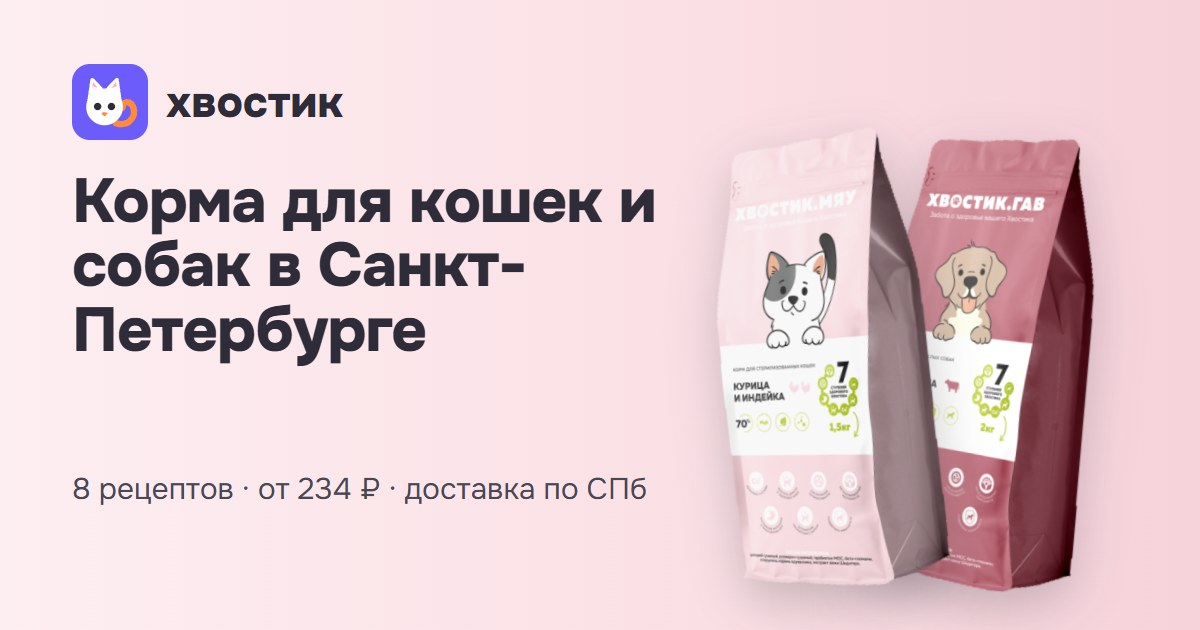
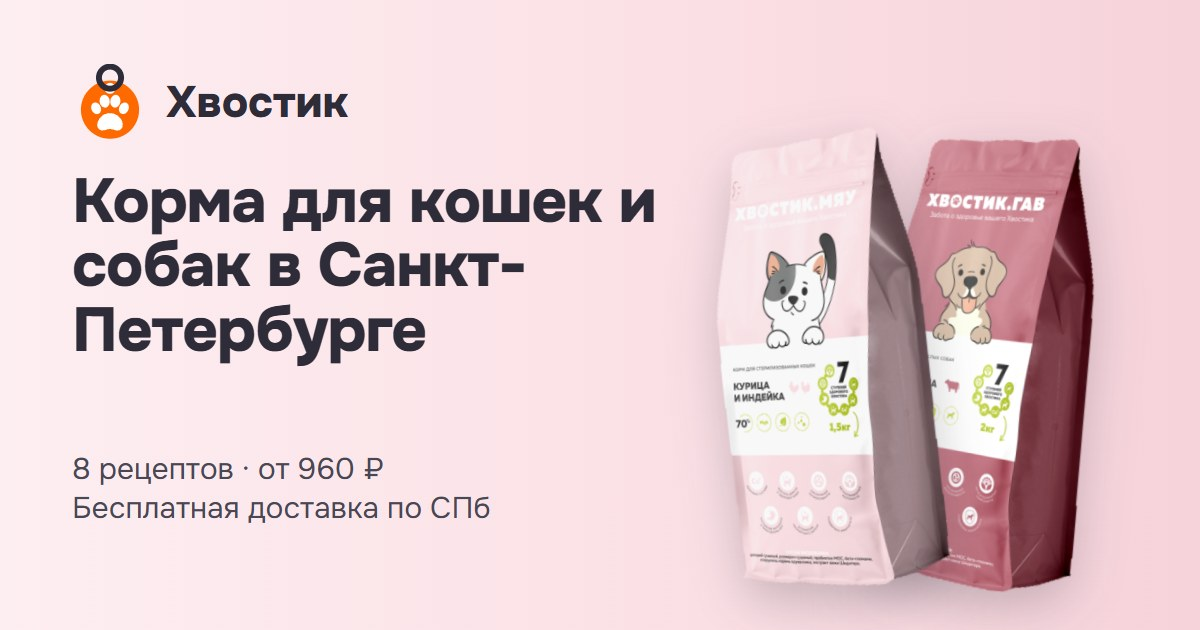
Логотип-брелок, компактный баннер cookie на телефоне, защита входа от ботов и коды в Telegram/Max, равные кнопки мессенджеров, неразрывный пробел перед ₽

Changed region(s): [[0.0617, 0.7238, 0.555, 0.8444], [0.0617, 0.0905, 0.3083, 0.2413]]

diff --git a/src/App.jsx b/src/App.jsx
@@ -1,6 +1,6 @@
 import { useEffect, useMemo, useRef, useState } from 'react'
 import {
-  Search, ShoppingBag, Heart, User, MapPin, Menu, X, Minus, Plus, ChevronRight, Phone, Clock, LogOut, Package,
+  Search, ShoppingBag, Heart, User, Menu, X, Minus, Plus, ChevronRight, Phone, Clock, LogOut, Package,
   Drumstick, Scale, HeartPulse, ShieldCheck, Factory, BadgeCheck, Check, Trash2, Loader2, Send, Truck, Sparkles, PawPrint, Cookie,
 } from 'lucide-react'
 import { Button } from '@/components/ui/button'
@@ -13,6 +13,7 @@ import { Dialog, DialogContent, DialogTitle, DialogDescription } from '@/compone
 import { cn } from '@/lib/utils'
 import { StoreProvider, useStore, rub, fmtPhone } from './store'
 import { RouterProvider, useRoute, Link } from './router'
+import { sendCode, checkCode, linkedChannels, setLinked, channelNames } from './auth'
 import {
   BASE, contacts, seller, products, kinds, searchHints, benefits, stats, checks, posts, contactTopics, faq, pages,
   productPath, minPrice, img, declaration, manufacturer, minAll,
@@ -100,7 +101,7 @@ function MessengerButtons({ className }) {
 function Logo({ light, onClick }) {
   return (
     <Link to="" onClick={onClick} className="flex shrink-0 items-center gap-2.5" aria-label="Хвостик — на главную">
-      <img src={`${BASE}favicon.svg`} alt="" width="44" height="44" className="size-10 sm:size-11" />
+      <img src={`${BASE}${light ? 'logo-light.svg' : 'favicon.svg'}`} alt="" width="44" height="44" className="size-10 sm:size-11" />
       <span className={cn('text-[22px] font-extrabold leading-none tracking-tight', light && 'text-white')}>Хвостик</span>
     </Link>
   )
@@ -286,7 +287,7 @@ function Hero({ nav }) {
           <span className="inline-block rounded-full bg-white px-3 py-1 text-xs font-semibold text-ink">Бесплатная доставка по Санкт-Петербургу</span>
           <h1 className="mt-5 text-[34px] font-extrabold leading-[1.04] tracking-tight md:text-[54px]">Корма «Хвостик» для кошек и собак в Санкт-Петербурге</h1>
           <p className="mt-5 max-w-[470px] text-lg leading-snug md:text-xl">
-            Хвостик.МЯУ и Хвостик.ГАВ — восемь сухих рецептов: для взрослых, котят, щенков, стерилизованных кошек и мелких пород. От {minAll} ₽.
+            Хвостик.МЯУ и Хвостик.ГАВ — восемь сухих рецептов: для взрослых, котят, щенков, стерилизованных кошек и мелких пород. От {minAll} ₽.
           </p>
           <div className="mt-8 flex flex-wrap gap-3">
             <Link to={kinds.cat.path} className={cn(inkBtn, 'flex h-[52px] items-center px-7 text-base')}>Корм для кошек</Link>
@@ -902,11 +903,11 @@ function Messengers() {
     document.addEventListener('keydown', esc)
     return () => { document.removeEventListener('pointerdown', out); document.removeEventListener('keydown', esc) }
   }, [open])
-  const item = 'flex items-center gap-2 rounded-full bg-white py-2 pl-2 pr-4 text-sm font-semibold shadow-[0_6px_24px_rgba(46,44,56,.2)] hover:bg-gray-1'
+  const item = 'flex w-full items-center gap-2 rounded-full bg-white py-2 pl-2 pr-4 text-sm font-semibold shadow-[0_6px_24px_rgba(46,44,56,.2)] hover:bg-gray-1'
   return (
     <div ref={box} className="fixed bottom-5 right-5 z-30 flex flex-col items-end gap-2">
       {open && (
-        <div className="flex flex-col items-end gap-2">
+        <div className="grid w-[156px] gap-2">
           <a href={contacts.telegram} target="_blank" rel="noopener nofollow" onClick={() => setOpen(false)} className={item}><TgIcon className="size-8" />Telegram</a>
           <a href={contacts.max} target="_blank" rel="noopener nofollow" onClick={() => setOpen(false)} className={item}><MaxIcon className="size-8" />Max</a>
         </div>
@@ -930,21 +931,28 @@ function CookieBanner() {
   }, [])
   const save = (v) => { try { localStorage.setItem('hv-cookies', JSON.stringify({ v, at: new Date().toISOString() })) } catch { /* пусто */ } setShow(false) }
   if (!show) return null
+  const policy = <Link to={pages.privacy.path} className="text-violet-dark underline">политике конфиденциальности</Link>
   return (
-    <div role="region" aria-label="Cookie и персональные данные" className="fixed inset-x-3 bottom-3 z-50 rounded-[16px] bg-white p-4 shadow-[0_12px_40px_rgba(46,44,56,.22)] sm:inset-x-auto sm:left-5 sm:bottom-5 sm:max-w-[460px]">
-      <div className="flex gap-3">
-        <Cookie className="mt-0.5 size-6 shrink-0 text-violet-dark" aria-hidden />
-        <div>
-          <div className="font-bold">Мы используем cookie</div>
-          <p className="mt-1 text-sm text-txt-2">
-            Используем cookie и обрабатываем персональные данные, чтобы работали корзина и личный кабинет. Подробнее — в{' '}
-            <Link to={pages.privacy.path} className="text-violet-dark underline">политике конфиденциальности</Link>.
-          </p>
-        </div>
+    <div role="region" aria-label="Cookie и персональные данные"
+      className="fixed inset-x-2 bottom-2 z-50 rounded-[14px] bg-white p-3 shadow-[0_8px_30px_rgba(46,44,56,.22)] sm:inset-x-auto sm:bottom-5 sm:left-5 sm:max-w-[460px] sm:rounded-[16px] sm:p-5">
+      {/* телефон: одна короткая строка и две маленькие кнопки */}
+      <div className="flex items-center gap-2 sm:hidden">
+        <p className="flex-1 text-[12px] leading-snug text-txt-2">Мы используем cookie и обрабатываем персональные данные. Подробнее — в {policy}.</p>
+        <button onClick={() => save('all')} className="h-10 shrink-0 rounded-[10px] bg-ink px-5 text-[14px] font-semibold text-white">Ок</button>
       </div>
-      <div className="mt-3 flex gap-2">
-        <Button onClick={() => save('all')} className={cn(inkBtn, 'flex-1')}>Принять</Button>
-        <Button onClick={() => save('necessary')} variant="ghost" className="h-11 flex-1 rounded-[10px] bg-gray-1 text-sm font-semibold hover:bg-gray-2">Только необходимые</Button>
+      {/* компьютер и планшет */}
+      <div className="hidden sm:block">
+        <div className="flex gap-3">
+          <Cookie className="mt-0.5 size-6 shrink-0 text-violet-dark" aria-hidden />
+          <div>
+            <div className="font-bold">Мы используем cookie</div>
+            <p className="mt-1 text-sm text-txt-2">Используем cookie и обрабатываем персональные данные, чтобы работали корзина и личный кабинет. Подробнее — в {policy}.</p>
+          </div>
+        </div>
+        <div className="mt-3 flex gap-2">
+          <Button onClick={() => save('all')} className={cn(inkBtn, 'flex-1')}>Принять</Button>
+          <Button onClick={() => save('necessary')} variant="ghost" className="h-11 flex-1 rounded-[10px] bg-gray-1 text-sm font-semibold hover:bg-gray-2">Только необходимые</Button>
+        </div>
       </div>
     </div>
   )
@@ -1083,40 +1091,91 @@ function Empty({ icon: I, text, action }) {
 
 function Login() {
   const st = useStore()
-  const [f, setF] = useState({ name: '', phone: '', code: '', ok: false })
+  const [f, setF] = useState({ name: '', phone: '', code: '', ok: false, trap: '' })
   const [step, setStep] = useState('phone')
   const [err, setErr] = useState('')
-  const next = (e) => {
+  const [busy, setBusy] = useState(false)
+  const [sent, setSent] = useState(null) // { channel, demoCode }
+  const [wait, setWait] = useState(0)
+  const started = useRef(Date.now())
+  useEffect(() => {
+    if (!wait) return
+    const t = setTimeout(() => setWait(wait - 1), 1000)
+    return () => clearTimeout(t)
+  }, [wait])
+  const request = async () => {
+    setBusy(true)
+    const res = await sendCode(f.phone, { trap: f.trap, startedAt: started.current })
+    setBusy(false)
+    if (res.resendIn) setWait(res.resendIn)
+    if (res.error) return setErr(res.error)
+    setErr(''); setSent(res); setF((x) => ({ ...x, code: '' })); setStep('code')
+  }
+  const next = async (e) => {
     e.preventDefault()
+    if (busy) return
     if (step === 'phone') {
       if (f.name.trim().length < 2) return setErr('Введите имя')
       if (f.phone.replace(/\D/g, '').length !== 11) return setErr('Введите телефон полностью')
       if (!f.ok) return setErr('Нужно согласие на обработку данных')
-      setErr(''); setStep('code')
-    } else {
-      if (f.code.length !== 4) return setErr('Введите 4 цифры')
-      st.setUser({ name: f.name.trim(), phone: f.phone })
+      return request()
     }
+    if (f.code.length !== 4) return setErr('Введите 4 цифры')
+    setBusy(true)
+    const res = await checkCode(f.phone, f.code)
+    setBusy(false)
+    if (res.error) return setErr(res.error)
+    st.setUser({ name: f.name.trim(), phone: f.phone })
   }
+  const where = sent?.channel === 'sms' ? `по смс на ${f.phone}` : `в ${channelNames[sent?.channel]} — аккаунт, привязанный к ${f.phone}`
   return (
     <form onSubmit={next} noValidate className="space-y-3">
-      <div className="mb-2 rounded-[14px] bg-violet-soft p-4 text-sm">Войдите, чтобы видеть свои заказы и избранное.</div>
+      <div className="mb-2 rounded-[14px] bg-violet-soft p-4 text-sm">Войдите, чтобы видеть свои заказы и избранное. Если к номеру привязан Telegram или Max, код придёт туда.</div>
       {step === 'phone' ? (
         <>
           <Input aria-label="Имя" autoComplete="name" placeholder="Имя" value={f.name} onChange={(e) => setF({ ...f, name: e.target.value })} className="h-12 rounded-[10px] text-[15px]" />
           <Input aria-label="Телефон" type="tel" autoComplete="tel" placeholder="Телефон" inputMode="tel" value={f.phone} onChange={(e) => setF({ ...f, phone: fmtPhone(e.target.value) })} className="h-12 rounded-[10px] text-[15px]" />
+          {/* поле-ловушка для ботов: людям не видно */}
+          <input type="text" name="company" tabIndex={-1} autoComplete="off" aria-hidden="true" value={f.trap} onChange={(e) => setF({ ...f, trap: e.target.value })} className="absolute -left-[9999px] h-px w-px opacity-0" />
           <Consent checked={f.ok} onChange={(ok) => setF({ ...f, ok })} />
         </>
       ) : (
         <>
-          <p className="text-[15px]">Код отправлен на {f.phone}. <button type="button" className="text-violet-dark underline" onClick={() => setStep('phone')}>изменить</button></p>
-          <Input aria-label="Код из смс" autoFocus placeholder="Код из смс" inputMode="numeric" autoComplete="one-time-code" maxLength={4} value={f.code} onChange={(e) => setF({ ...f, code: e.target.value.replace(/\D/g, '') })} className="h-12 rounded-[10px] text-center text-xl tracking-[.5em]" />
-          <p className="text-xs text-txt-2">Демо: подойдут любые 4 цифры, смс не отправляется.</p>
+          <p className="text-[15px]">Код отправлен {where}. <button type="button" className="text-violet-dark underline" onClick={() => { setStep('phone'); setErr('') }}>Изменить номер</button></p>
+          <Input aria-label="Код" autoFocus placeholder="Код" inputMode="numeric" autoComplete="one-time-code" maxLength={4} value={f.code} onChange={(e) => setF({ ...f, code: e.target.value.replace(/\D/g, '') })} className="h-12 rounded-[10px] text-center text-xl tracking-[.5em]" />
+          {sent?.demoCode && <p className="text-xs text-txt-2">Демо: сообщения пока не отправляются, ваш код — {sent.demoCode}</p>}
+          <button type="button" disabled={wait > 0 || busy} onClick={request} className="text-sm text-violet-dark underline disabled:text-txt-2 disabled:no-underline">
+            {wait > 0 ? `Отправить код повторно через ${wait} с` : 'Отправить код повторно'}
+          </button>
         </>
       )}
-      {err && <p className="text-sm text-destructive">{err}</p>}
-      <Button type="submit" className={cn(inkBtn, 'h-12 w-full text-base')}>{step === 'phone' ? 'Получить код' : 'Войти'}</Button>
+      {err && <p role="alert" className="text-sm text-destructive">{err}</p>}
+      <Button type="submit" disabled={busy} className={cn(inkBtn, 'h-12 w-full text-base')}>{busy ? <Loader2 className="size-5 animate-spin" /> : step === 'phone' ? 'Получить код' : 'Войти'}</Button>
     </form>
+  )
+}
+
+// Привязка мессенджеров: после привязки коды для входа приходят туда, а не по смс
+function LinkedMessengers() {
+  const st = useStore()
+  const [linked, setL] = useState(() => linkedChannels(st.user.phone))
+  const toggle = (c) => setL(setLinked(st.user.phone, c, !linked.includes(c)))
+  return (
+    <div className="rounded-[14px] border border-gray-2 p-4">
+      <div className="font-semibold">Коды для входа</div>
+      <p className="mt-1 text-sm text-txt-2">Привяжите мессенджер — коды будут приходить туда, а не по смс.</p>
+      <div className="mt-3 grid grid-cols-2 gap-2">
+        {[['telegram', TgIcon], ['max', MaxIcon]].map(([c, I]) => {
+          const on = linked.includes(c)
+          return (
+            <button key={c} type="button" onClick={() => toggle(c)} aria-pressed={on}
+              className={cn('flex h-11 items-center justify-center gap-2 rounded-[10px] text-sm font-semibold transition-colors', on ? 'bg-violet-soft text-violet-dark' : 'bg-gray-1 hover:bg-gray-2')}>
+              <I className="size-6" />{channelNames[c]}{on && <span className="flex items-center gap-0.5 text-xs font-medium"><Check className="size-3.5" />подключён</span>}
+            </button>
+          )
+        })}
+      </div>
+    </div>
   )
 }
 
@@ -1126,16 +1185,17 @@ function Profile({ nav }) {
     <div className="space-y-5">
       <div className="flex items-center gap-3 rounded-[14px] bg-gray-1 p-4">
         <span className="flex size-12 items-center justify-center rounded-full bg-violet-dark text-lg font-bold text-white">{st.user.name[0]?.toUpperCase()}</span>
-        <div className="flex-1"><div className="font-bold">{st.user.name}</div><div className="text-sm text-txt-2">{st.user.phone}</div></div>
+        <div className="min-w-0 flex-1"><div className="font-bold">{st.user.name}</div><div className="whitespace-nowrap text-sm text-txt-2">{st.user.phone}</div></div>
         <button onClick={() => st.setUser(null)} className="flex items-center gap-1 text-sm text-txt-2 hover:text-ink"><LogOut className="size-4" />Выйти</button>
       </div>
       <div className="grid grid-cols-2 gap-2">
         <button onClick={() => st.setPanel('fav')} className="rounded-[14px] border border-gray-2 p-4 text-left hover:bg-gray-1"><Heart className="mb-2 size-5" /><div className="font-semibold">Избранное</div><div className="text-sm text-txt-2">{st.fav.length} шт.</div></button>
         <button onClick={() => st.setPanel('cart')} className="rounded-[14px] border border-gray-2 p-4 text-left hover:bg-gray-1"><ShoppingBag className="mb-2 size-5" /><div className="font-semibold">Корзина</div><div className="text-sm text-txt-2">{st.count} шт.</div></button>
       </div>
+      <LinkedMessengers />
       <div>
         <div className="mb-3 text-lg font-extrabold">Мои заказы</div>
-        {!st.orders.length && <p className="text-sm text-txt-2">Заказов пока нет. <button className="text-violet-dark underline" onClick={() => { st.setPanel(null); nav.show({}) }}>перейти в каталог</button></p>}
+        {!st.orders.length && <p className="text-sm text-txt-2">Заказов пока нет. <button className="text-violet-dark underline" onClick={() => { st.setPanel(null); nav.show({}) }}>Перейти в каталог</button></p>}
         <div className="space-y-2">
           {st.orders.map((o) => (
             <div key={o.n} className="rounded-[14px] border border-gray-2 p-4">

diff --git a/src/auth.js b/src/auth.js
@@ -1,0 +1,126 @@
+// Вход в личный кабинет по коду: защита от ботов и выбор канала доставки кода.
+//
+// Как это будет работать с настоящим сервисом:
+// 1. Браузер получает токен Яндекс SmartCaptcha (невидимая проверка, российский сервис)
+//    и отправляет его на сервер вместе с номером: POST /api/auth/send-code { phone, captcha }.
+// 2. Сервер проверяет токен капчи, лимиты по номеру и IP, затем смотрит,
+//    привязан ли к номеру Telegram или Max. Если привязан — код уходит туда (бесплатно),
+//    если нет — по смс через подключённый смс-сервис.
+// 3. Ответ сервера: { channel: 'telegram' | 'max' | 'sms', resendIn: 60 }.
+// Пока сервера нет, всё ниже работает в демо-режиме прямо в браузере.
+// Важно: проверки в браузере — первый барьер, обойти их можно. Настоящие лимиты
+// и проверка капчи обязательно должны дублироваться на сервере.
+
+export const authConfig = {
+  api: '', // адрес сервера, например 'https://api.hvostik.ru'; пусто — демо-режим
+  smartCaptchaKey: '', // ключ клиента Яндекс SmartCaptcha; пусто — капча не загружается
+  resendSeconds: 60, // пауза перед повторной отправкой кода
+  maxSendsPerHour: 3, // сколько раз за час можно запросить код на один номер
+  maxWrongCodes: 5, // после стольких неверных кодов вход блокируется
+  lockMinutes: 15,
+  minFillMs: 1500, // форму, заполненную быстрее, считаем заполненной ботом
+}
+
+export const channelNames = { telegram: 'Telegram', max: 'Max', sms: 'смс' }
+
+const digits = (phone) => phone.replace(/\D/g, '')
+const read = (k, d) => { try { return JSON.parse(localStorage.getItem(k)) ?? d } catch { return d } }
+const write = (k, v) => { try { localStorage.setItem(k, JSON.stringify(v)) } catch { /* пусто */ } }
+
+/* ---- привязка мессенджеров (демо: хранится в браузере, на сервере — в базе) ---- */
+export function linkedChannels(phone) {
+  return read('hv-linked', {})[digits(phone)] || []
+}
+export function setLinked(phone, channel, on) {
+  const all = read('hv-linked', {})
+  const cur = new Set(all[digits(phone)] || [])
+  on ? cur.add(channel) : cur.delete(channel)
+  all[digits(phone)] = [...cur]
+  write('hv-linked', all)
+  return all[digits(phone)]
+}
+// Куда отправлять код: сначала Telegram, потом Max, иначе смс
+export const pickChannel = (linked) => (linked.includes('telegram') ? 'telegram' : linked.includes('max') ? 'max' : 'sms')
+
+/* ---- лимиты ---- */
+function limits(phone) {
+  const all = read('hv-auth', {})
+  return { all, l: all[digits(phone)] || { sends: [], wrong: 0, lockUntil: 0 } }
+}
+const save = (phone, all, l) => { all[digits(phone)] = l; write('hv-auth', all) }
+
+export function lockLeft(phone) {
+  const { l } = limits(phone)
+  return Math.max(0, Math.ceil((l.lockUntil - Date.now()) / 1000))
+}
+
+/* ---- Яндекс SmartCaptcha: загружается только если указан ключ ---- */
+let captchaReady
+function loadCaptcha() {
+  if (!authConfig.smartCaptchaKey) return Promise.resolve(null)
+  captchaReady ||= new Promise((ok, fail) => {
+    const s = document.createElement('script')
+    s.src = 'https://smartcaptcha.yandexcloud.net/captcha.js?render=onload'
+    s.async = true
+    s.onload = () => ok(window.smartCaptcha)
+    s.onerror = fail
+    document.head.appendChild(s)
+  })
+  return captchaReady
+}
+async function captchaToken() {
+  const sc = await loadCaptcha()
+  if (!sc) return null
+  const box = document.createElement('div')
+  document.body.appendChild(box)
+  return new Promise((ok) => {
+    const id = sc.render(box, { sitekey: authConfig.smartCaptchaKey, invisible: true, hideShield: true, callback: (t) => { box.remove(); ok(t) } })
+    sc.execute(id)
+  })
+}
+
+/* ---- отправка кода ---- */
+// trap — скрытое поле-ловушка (человек его не видит и не заполняет), startedAt — когда открыли форму
+export async function sendCode(phone, { trap = '', startedAt = 0 } = {}) {
+  if (trap) return { error: 'Не удалось отправить код. Попробуйте ещё раз.' }
+  if (Date.now() - startedAt < authConfig.minFillMs) return { error: 'Слишком быстро. Проверьте данные и нажмите ещё раз.' }
+  const { all, l } = limits(phone)
+  const now = Date.now()
+  if (l.lockUntil > now) return { error: `Слишком много попыток. Попробуйте через ${Math.ceil((l.lockUntil - now) / 60000)} мин.` }
+  l.sends = l.sends.filter((t) => now - t < 3600e3)
+  const last = l.sends.at(-1)
+  if (last && now - last < authConfig.resendSeconds * 1000) return { error: 'Код уже отправлен, подождите немного.', resendIn: Math.ceil((authConfig.resendSeconds * 1000 - (now - last)) / 1000) }
+  if (l.sends.length >= authConfig.maxSendsPerHour) return { error: 'Код можно запросить не больше 3 раз в час. Попробуйте позже.' }
+
+  const captcha = await captchaToken()
+  let res
+  if (authConfig.api) {
+    const r = await fetch(`${authConfig.api}/api/auth/send-code`, { method: 'POST', headers: { 'Content-Type': 'application/json' }, body: JSON.stringify({ phone: digits(phone), captcha }) })
+    res = await r.json()
+    if (!r.ok) return { error: res.error || 'Не удалось отправить код' }
+  } else {
+    // демо: код генерируется в браузере и показывается на экране
+    const code = String(Math.floor(1000 + Math.random() * 9000))
+    sessionStorage.setItem('hv-demo-code', code)
+    res = { channel: pickChannel(linkedChannels(phone)), resendIn: authConfig.resendSeconds, demoCode: code }
+  }
+  l.sends.push(now)
+  save(phone, all, l)
+  return res
+}
+
+/* ---- проверка кода ---- */
+export async function checkCode(phone, code) {
+  const { all, l } = limits(phone)
+  if (l.lockUntil > Date.now()) return { error: 'Вход временно заблокирован. Попробуйте позже.' }
+  let ok
+  if (authConfig.api) {
+    const r = await fetch(`${authConfig.api}/api/auth/check-code`, { method: 'POST', headers: { 'Content-Type': 'application/json' }, body: JSON.stringify({ phone: digits(phone), code }) })
+    ok = r.ok
+  } else ok = code === sessionStorage.getItem('hv-demo-code')
+  if (ok) { l.wrong = 0; save(phone, all, l); sessionStorage.removeItem('hv-demo-code'); return { ok: true } }
+  l.wrong += 1
+  if (l.wrong >= authConfig.maxWrongCodes) { l.lockUntil = Date.now() + authConfig.lockMinutes * 60e3; l.wrong = 0; save(phone, all, l); return { error: `Неверный код. Вход заблокирован на ${authConfig.lockMinutes} минут.` } }
+  save(phone, all, l)
+  return { error: `Неверный код. Осталось попыток: ${authConfig.maxWrongCodes - l.wrong}` }
+}

diff --git a/src/data.js b/src/data.js
@@ -113,16 +113,16 @@ export const products = [
   },
 ]
 
-const fmt = (n) => n.toLocaleString('ru-RU').replace(/\u00a0|\u202f/g, ' ')
+const fmt = (n) => n.toLocaleString('ru-RU').replace(/\u202f| /g, '\u00a0')
 const from = (kind) => fmt(Math.min(...products.filter((p) => p.kind === kind).flatMap((p) => p.weights.map((w) => w.price))))
 export const kinds = {
   cat: { path: 'koshkam/', menu: 'Кошкам', h1: 'Сухой корм для кошек Хвостик.МЯУ',
     title: 'Сухой корм для кошек Хвостик.МЯУ — купить в Санкт-Петербурге',
-    desc: `Сухой корм Хвостик.МЯУ для кошек, котят и стерилизованных кошек: 1,5 и 10 кг. Цены от ${from('cat')} ₽, бесплатная доставка до пунктов 5Post в СПб.`,
+    desc: `Сухой корм Хвостик.МЯУ для кошек, котят и стерилизованных кошек: 1,5 и 10 кг. Цены от ${from('cat')} ₽, бесплатная доставка до пунктов 5Post в СПб.`,
     intro: 'Четыре рецепта для кошек: для взрослых, стерилизованных, котят, беременных и кормящих. Фасовки 1,5 кг и 10 кг. Бесплатная доставка до пунктов выдачи 5Post в Санкт-Петербурге.' },
   dog: { path: 'sobakam/', menu: 'Собакам', h1: 'Сухой корм для собак Хвостик.ГАВ',
     title: 'Сухой корм для собак Хвостик.ГАВ — купить в Санкт-Петербурге',
-    desc: `Сухой корм Хвостик.ГАВ для взрослых собак, щенков и мелких пород: 2, 10 и 15 кг. Цены от ${from('dog')} ₽, бесплатная доставка до пунктов 5Post в СПб.`,
+    desc: `Сухой корм Хвостик.ГАВ для взрослых собак, щенков и мелких пород: 2, 10 и 15 кг. Цены от ${from('dog')} ₽, бесплатная доставка до пунктов 5Post в СПб.`,
     intro: 'Четыре рецепта для собак: для взрослых, щенков и мелких пород. Фасовки 2 кг, 10 кг и 15 кг. Бесплатная доставка до пунктов выдачи 5Post в Санкт-Петербурге.' },
 }
 export const minAll = fmt(Math.min(...products.flatMap((p) => p.weights.map((w) => w.price))))

diff --git a/src/store.jsx b/src/store.jsx
@@ -59,7 +59,7 @@ export function StoreProvider({ children }) {
   return <Ctx.Provider value={api}>{children}</Ctx.Provider>
 }
 
-export const rub = (n) => n.toLocaleString('ru-RU').replace(/\u00a0|\u202f/g, ' ') + ' ₽'
+export const rub = (n) => n.toLocaleString('ru-RU').replace(/\u202f| /g, '\u00a0') + '\u00a0₽' // неразрывные пробелы: ₽ не уезжает на новую строку
 
 export const fmtPhone = (raw) => {
   let d = raw.replace(/\D/g, '')
